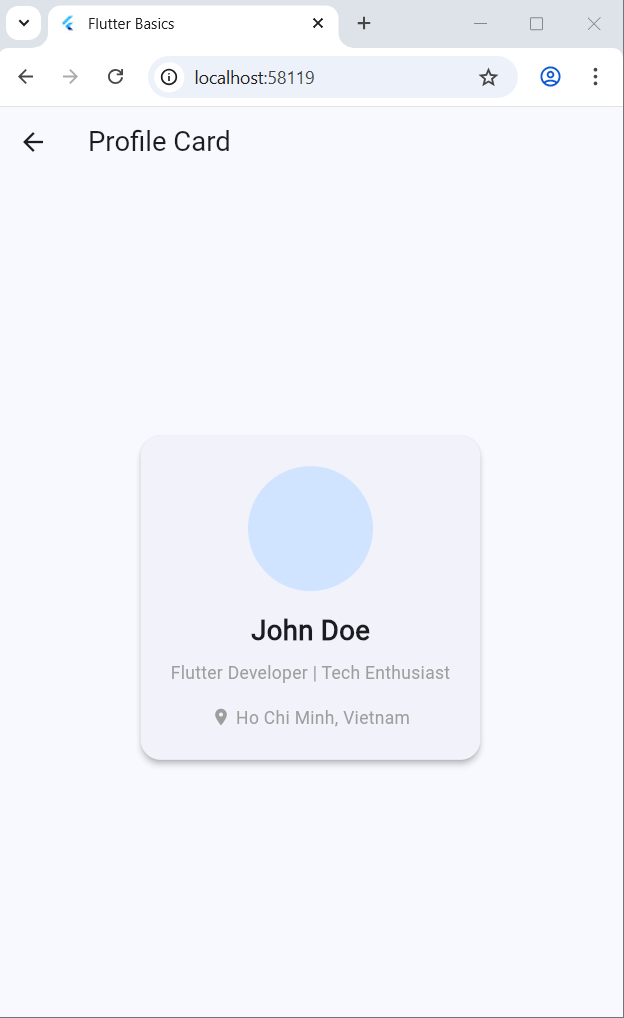
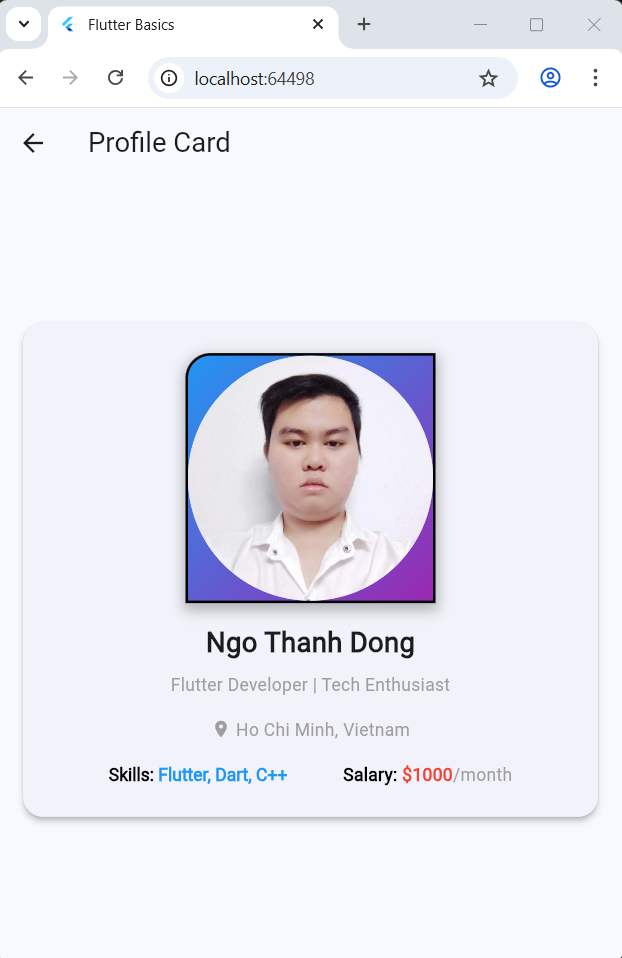
feat: add profile, product, and social post card exercises.

diff --git a/02_flutter_basics/flutter_basics/lib/exercises/ex05_profile_card.dart b/02_flutter_basics/flutter_basics/lib/exercises/ex05_profile_card.dart
@@ -19,7 +19,7 @@ class Ex05ProfileCard extends StatelessWidget {
 
   @override
   Widget build(BuildContext context) {
-    return Scaffold(
+    return Scaffold( // Scaffold: Cấu trúc cơ bản của màn hình
       appBar: AppBar(title: Text('Profile Card')),
       body: Center(
         child: Padding(
@@ -28,7 +28,8 @@ class Ex05ProfileCard extends StatelessWidget {
           child: Card(
             elevation: 4, // Độ nổi của Card (bóng đổ đậm hơn nếu số to)
             shape: RoundedRectangleBorder(
-              borderRadius: BorderRadius.circular(16),
+              // Hình chữ nhật có bo góc
+              borderRadius: BorderRadius.circular(16), // Bo tròn tất cả 4 góc
             ),
             child: Padding(
               padding: EdgeInsets.all(24),
@@ -38,18 +39,59 @@ class Ex05ProfileCard extends StatelessWidget {
                 // Nếu không dùng cái này, Column sẽ chiếm hết height màn hình -> Card bị kéo dài vô duyên.
                 mainAxisSize: MainAxisSize.min,
                 children: [
-                  // CircleAvatar: Widget tạo ảnh tròn tiện lợi
-                  CircleAvatar(
-                    radius: 50, // Bán kính
-                    backgroundImage: NetworkImage(
-                      'https://i.pravatar.cc/150',
-                    ), // Load ảnh từ mạng
+                  Container(
+                    width: 200,
+                    height: 200,
+
+                    decoration: BoxDecoration(
+                      // Màu nền
+                      color: Colors.white,
+                      // Gradient
+                      gradient: LinearGradient(
+                        colors: [Colors.blue, Colors.purple],
+                        begin: Alignment.topLeft,
+                        end: Alignment.bottomRight,
+                      ),
+                      // Border
+                      border: Border.all(color: Colors.black, width: 2),
+                      // Bo góc
+                      // borderRadius: BorderRadius.circular(12),
+                      borderRadius: BorderRadius.only(
+                        topLeft: Radius.circular(20),
+                      ),
+
+                      // Cấu hình đổ bóng (shadow) cho widget
+                      boxShadow: [
+                        BoxShadow(
+                          color: Colors
+                              .black26, // black26 = đen với độ trong suốt 26%
+                          offset: Offset(
+                            0,
+                            4,
+                          ), // offset = vị trí của bóng (bóng đổ xuống dưới 4px)
+                          blurRadius:
+                              8, // blurRadius = độ mờ của bóng (Số càng lớn → bóng càng mềm)
+                          spreadRadius:
+                              2, // spreadRadius = độ rộng của bóng (> 0 → bóng to ra, < 0 → bóng nhỏ lại)
+                        ),
+                      ],
+                    ),
+
+                    // CircleAvatar: Widget tạo ảnh tròn tiện lợi
+                    child: CircleAvatar(
+                      radius: 50, // Bán kính
+                      backgroundImage: NetworkImage(
+                        'https://avatars.githubusercontent.com/u/22424228?v=4',
+                      ), // Load ảnh từ mạng
+                    ),
                   ),
+
                   SizedBox(height: 16),
                   Text(
-                    'John Doe',
+                    'Ngo Thanh Dong',
                     style: TextStyle(fontSize: 22, fontWeight: FontWeight.bold),
                   ),
+
                   SizedBox(height: 8),
                   Text(
                     'Flutter Developer | Tech Enthusiast',
@@ -57,6 +99,7 @@ class Ex05ProfileCard extends StatelessWidget {
                     textAlign:
                         TextAlign.center, // Căn giữa text nếu nó dài quá 1 dòng
                   ),
+
                   SizedBox(height: 16),
                   Row(
                     mainAxisSize: MainAxisSize.min, // Row cũng chỉ rộng vừa đủ
@@ -66,6 +109,59 @@ class Ex05ProfileCard extends StatelessWidget {
                       Text(
                         'Ho Chi Minh, Vietnam',
                         style: TextStyle(color: Colors.grey),
+                      ),
+                    ],
+                  ),
+
+                  const SizedBox(height: 16),
+                  // RichText: Cho phép hiển thị text với nhiều style khác nhau trong cùng 1 widget
+                  Row(
+                    mainAxisAlignment: MainAxisAlignment.spaceEvenly,
+                    children: [
+                      RichText(
+                        text: TextSpan(
+                          text: 'Skills: ',
+                          style: TextStyle(
+                            color: Colors.black,
+                            fontWeight: FontWeight.bold,
+                          ),
+                          children: [
+                            TextSpan(
+                              text: 'Flutter, Dart, C++',
+                              style: TextStyle(
+                                color: Colors.blue,
+                                fontWeight: FontWeight.w600,
+                              ),
+                            ),
+                          ],
+                        ),
+                      ),
+
+                      // Hoặc dùng Text.rich
+                      Text.rich(
+                        TextSpan(
+                          text: 'Salary: ',
+                          style: TextStyle(
+                            color: Colors.black,
+                            fontWeight: FontWeight.bold,
+                          ),
+                          children: [
+                            TextSpan(
+                              text: '\$1000',
+                              style: TextStyle(
+                                color: Colors.red,
+                                fontWeight: FontWeight.w600,
+                              ),
+                            ),
+                            TextSpan(
+                              text: '/month',
+                              style: TextStyle(
+                                color: Colors.grey,
+                                fontWeight: FontWeight.w400,
+                              ),
+                            ),
+                          ],
+                        ),
                       ),
                     ],
                   ),

diff --git a/02_flutter_basics/flutter_basics/lib/exercises/ex07_social_post_card.dart b/02_flutter_basics/flutter_basics/lib/exercises/ex07_social_post_card.dart
@@ -20,13 +20,14 @@ class Ex07SocialPostCard extends StatelessWidget {
   @override
   Widget build(BuildContext context) {
     return Scaffold(
-      backgroundColor: Colors.grey[100],
+      backgroundColor: Colors.grey[100], // Màu nền xám nhạt
       appBar: AppBar(title: Text('Social Post')),
       body: Center(
         child: Padding(
           padding: EdgeInsets.all(16),
           child: Card(
             elevation: 2,
+            // Xác định hình dạng (shape) của widget Card
             shape: RoundedRectangleBorder(
               borderRadius: BorderRadius.circular(12),
             ),
@@ -39,6 +40,7 @@ class Ex07SocialPostCard extends StatelessWidget {
                   padding: EdgeInsets.all(12),
                   child: Row(
                     children: [
+                      // CircleAvatar: Ảnh đại diện tròn
                       CircleAvatar(
                         backgroundImage: NetworkImage(
                           'https://i.pravatar.cc/100',
@@ -60,14 +62,22 @@ class Ex07SocialPostCard extends StatelessWidget {
                       ),
                       // Spacer: Chiếm hết khoảng trống thừa còn lại -> Đẩy icon cuối cùng sang sát lề phải
                       Spacer(),
-                      Icon(Icons.more_horiz),
+                      // IconButton: Nút có icon
+                      IconButton(
+                        onPressed: () {
+                          debugPrint('More');
+                        },
+                        icon: Icon(Icons.more_horiz),
+                      ),
                     ],
                   ),
                 ),
 
                 // 2. Content Text
                 Padding(
-                  padding: EdgeInsets.symmetric(horizontal: 12),
+                  padding: EdgeInsets.symmetric(
+                    horizontal: 12,
+                  ), // Padding 2 bên
                   child: Text(
                     'Just arrived in Paris! The weather is amazing. 🗼☕ #travel #paris #france',
                     style: TextStyle(fontSize: 16),
@@ -77,10 +87,11 @@ class Ex07SocialPostCard extends StatelessWidget {
                 SizedBox(height: 12),
 
                 // 3. Image
+                // Image.network: Hiển thị ảnh từ URL
                 Image.network(
                   'https://picsum.photos/600/300',
                   height: 200,
-                  width: double.infinity,
+                  width: double.infinity, // Chiều rộng full màn hình
                   fit: BoxFit.cover, // Resize ảnh chuẩn đẹp
                 ),
 
@@ -88,7 +99,7 @@ class Ex07SocialPostCard extends StatelessWidget {
 
                 // 4. Footer Actions
                 Padding(
-                  padding: EdgeInsets.symmetric(horizontal: 8),
+                  padding: EdgeInsets.symmetric(horizontal: 8), // Padding 2 bên
                   child: Row(
                     mainAxisAlignment: MainAxisAlignment
                         .spaceAround, // Chia đều không gian cho 3 nút
@@ -103,7 +114,9 @@ class Ex07SocialPostCard extends StatelessWidget {
                           'Like',
                           style: TextStyle(color: Colors.grey),
                         ),
-                        onPressed: () {},
+                        onPressed: () {
+                          debugPrint('Like');
+                        },
                       ),
                       TextButton.icon(
                         icon: Icon(Icons.comment_outlined, color: Colors.grey),
@@ -111,7 +124,9 @@ class Ex07SocialPostCard extends StatelessWidget {
                           'Comment',
                           style: TextStyle(color: Colors.grey),
                         ),
-                        onPressed: () {},
+                        onPressed: () {
+                          debugPrint('Comment');
+                        },
                       ),
                       TextButton.icon(
                         icon: Icon(Icons.share_outlined, color: Colors.grey),
@@ -119,7 +134,9 @@ class Ex07SocialPostCard extends StatelessWidget {
                           'Share',
                           style: TextStyle(color: Colors.grey),
                         ),
-                        onPressed: () {},
+                        onPressed: () {
+                          debugPrint('Share');
+                        },
                       ),
                     ],
                   ),

diff --git a/02_flutter_basics/flutter_basics/lib/exercises/ex06_product_card.dart b/02_flutter_basics/flutter_basics/lib/exercises/ex06_product_card.dart
@@ -31,14 +31,19 @@ class Ex06ProductCard extends StatelessWidget {
         child: Container(
           width: 250, // Cố định chiều rộng card
           decoration: BoxDecoration(
+            // BoxDecoration: Cấu hình viền và đổ bóng
             color: Colors.white,
             borderRadius: BorderRadius.circular(20),
             // BoxShadow đẹp: bóng mờ, blur rộng, lệch xuống dưới
             boxShadow: [
               BoxShadow(
                 color: Colors.black12,
-                blurRadius: 10,
-                offset: Offset(0, 4),
+                blurRadius:
+                    10, // blurRadius = độ mờ của bóng (Số càng lớn → bóng càng mềm)
+                offset: Offset(
+                  0,
+                  4,
+                ), // offset = vị trí của bóng (bóng đổ xuống dưới 4px)
               ),
             ],
           ),
@@ -66,7 +71,8 @@ class Ex06ProductCard extends StatelessWidget {
               Padding(
                 padding: EdgeInsets.all(16),
                 child: Column(
-                  crossAxisAlignment: CrossAxisAlignment.start,
+                  crossAxisAlignment:
+                      CrossAxisAlignment.start, // Căn lề trái nội dung
                   children: [
                     // Tên
                     Text(
